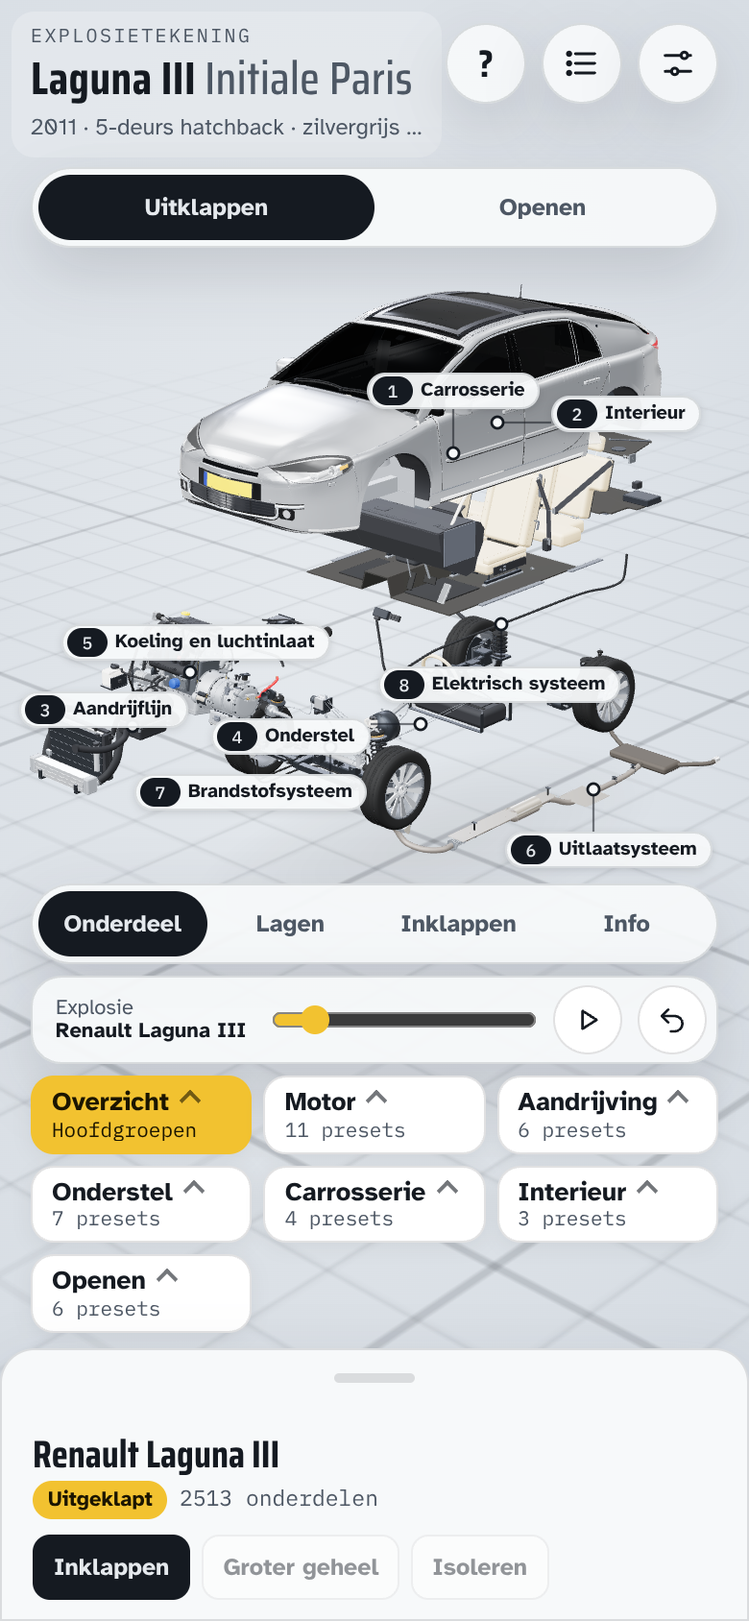
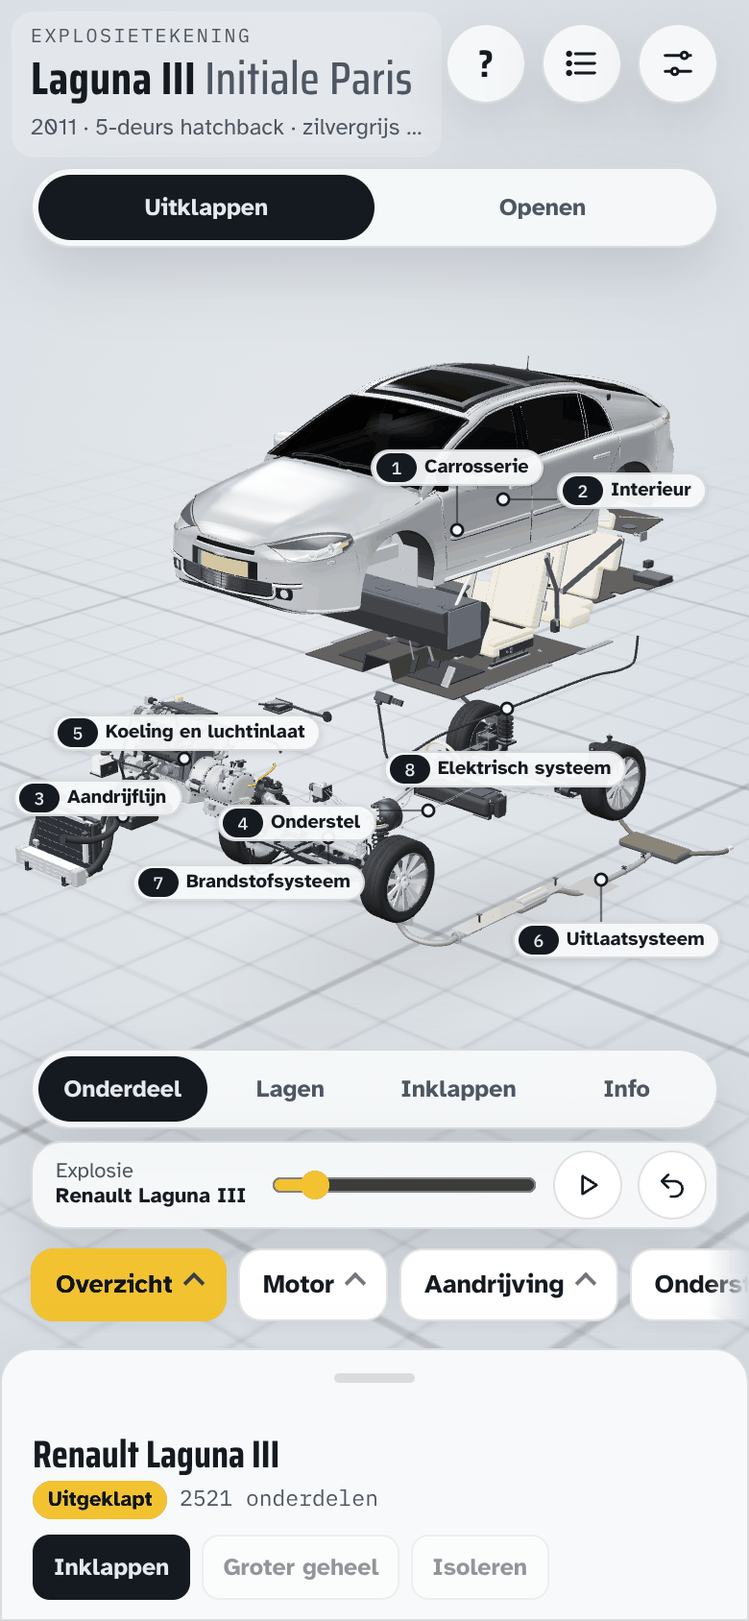
Versie 7 gebouwd en gedocumenteerd: strikte set groen op de samenvoeging, screenshots van versie 7 in 256 kleuren, kerncijfers, boom-snapshot en handomdraai
- docs/cijfers.md uit stats.json en tri.json van de strikte set (g5merge, 01:21 tot 01:52 UTC, alles groen, itest 161 van 161)
- data/tree.json: 3.020 paden (was 3.015), pncheck ok, partnumbers.js en CSV byte voor byte gelijk
- docs/screenshots: twaalf beelden opnieuw uit de presets, teruggebracht tot 256 kleuren (7,1 MB naar 2,9 MB); docshots.py doet dat voortaan zelf, pillow in requirements.txt
- docs/testen.md: resultaten versie 7; docs/ontwerp-en-architectuur.md: zonneschermslag met de stop voor de cassette (0,60 en 0,44 m)
- handomdraai.md herschreven naar de stand van PR #3; CHANGELOG en masterplan bijgewerkt; README: herkomst van de screenshots

Claude-Session: https://claude.ai/code/session_01RCjVtuLVn2Rjmm1TgihnXm

diff --git a/tools/orkestratie/docshots.py b/tools/orkestratie/docshots.py
@@ -1,4 +1,5 @@
-"""Screenshots voor docs/screenshots via de presets van de app (elf op 1280 x 800 en mobiel.png op 390 x 844).
+"""Screenshots voor docs/screenshots via de presets van de app (elf op 1280 x 800 en mobiel.png op 390 x 844), daarna
+teruggebracht tot 256 kleuren met Pillow (ongeveer 60 procent kleiner; zonder Pillow blijven ze in volle kleur, met een melding).
 
     python3 tools/orkestratie/docshots.py REPO UITVOERMAP    exitcode 1 bij consolefouten
 """
@@ -10,15 +11,22 @@ from harness import session
 SHOTS = [('gemonteerd', 'assembled'), ('hoofdgroepen', 'main'), ('alles-uit-elkaar', 'everything'), ('motor-f4rt', 'engine'), ('automaat', 'gearbox'), ('rontgen', 'xray'),
          ('openen-motorruimte', 'openHood'), ('openen-instappen', 'openDoors'), ('openen-bagageruimte', 'openTrunk'), ('openen-panoramadak', 'openRoof'), ('openen-alles', 'openAll')]
 os.makedirs(out, exist_ok=True)
+def klein(path):
+    try:
+        from PIL import Image
+    except ImportError:
+        print('Pillow ontbreekt: ' + path + ' blijft in volle kleur'); return
+    im = Image.open(path).convert('RGB')
+    im.quantize(colors=256, method=Image.Quantize.MEDIANCUT, dither=Image.Dither.FLOYDSTEINBERG).save(path, 'PNG', optimize=True)
 with session() as s:
     pg = s.page(1280, 800)
     for name, pid in SHOTS:
         pg.evaluate("(id) => { const L = __laguna; L.preset(id); L.finishAll(); if (L.batchFlush) L.batchFlush(); L.finishAll(); return 1; }", pid)
         pg.wait_for_timeout(1200)
-        pg.screenshot(path=os.path.join(out, name + '.png'), timeout=180000); print('beeld', name)
+        pg.screenshot(path=os.path.join(out, name + '.png'), timeout=180000); klein(os.path.join(out, name + '.png')); print('beeld', name)
     pg2 = s.page(390, 844, scale=2, touch=True)
     pg2.evaluate("() => { const L = __laguna; L.preset('main'); L.finishAll(); if (L.batchFlush) L.batchFlush(); L.finishAll(); return 1; }")
     pg2.wait_for_timeout(1200)
-    pg2.screenshot(path=os.path.join(out, 'mobiel.png'), timeout=180000); print('beeld mobiel')
+    pg2.screenshot(path=os.path.join(out, 'mobiel.png'), timeout=180000); klein(os.path.join(out, 'mobiel.png')); print('beeld mobiel')
     s.report()
     sys.exit(1 if s.errors() else 0)

diff --git a/handomdraai.md b/handomdraai.md
@@ -1,52 +1,58 @@
 # Handomdraai laguna3
 
-Stand 16 oktober 2026, 00:10 UTC. Golf 5 (de parallelle sessie van 15 oktober, 19:10 tot 21:36 UTC) en golf 5a-1 (het vangnet, vanaf 23:10 UTC) zijn samengevoegd op de tak `ccr-63d946bb-ng8q5l`. Versie 7 is gebouwd uit die stand zodra de strikte testset groen is; publicatie en PR volgen in dezelfde ronde. Het volledige verbeterplan staat in [docs/masterplan.md](docs/masterplan.md).
+Stand 16 oktober 2026, 02:00 UTC. Golf 5 van de parallelle sessie (15 oktober 19:10 tot 16 oktober 00:12 UTC, inclusief haar herstelronde), golf 5a-1 (vangnet-kern) en golf 5a-2 (vangnet-rest) staan samengevoegd op de tak `ccr-63d946bb-ng8q5l`, als concept-PR #3 naar `main`. De strikte testset is groen op die stand en `index.html` is gebouwd als versie 7 (`7 (bron 7d0e606)`). Publicatie is het samenvoegen van PR #3: dan serveert GitHub Pages versie 7. Het volledige verbeterplan staat in [docs/masterplan.md](docs/masterplan.md).
 
 ## Waar
 
-- Repo `rvd-gmpplus/laguna3`. `main` staat op `f3a7854` (versie 6, GitHub Pages serveert die). De tak `ccr-bd755431-1qfniw` van de parallelle sessie (golf 5, 21 commits, tip `8e03e87`) zit volledig in `ccr-63d946bb-ng8q5l`; alles vanaf hier gaat vanaf die laatste tak en daarna `main`.
-- Live: https://claude.ai/artifact/4qJq7YUk5nGSFmexY7WkZR (versie 6) en https://rvd-gmpplus.github.io/laguna3/ (versie 6, uit `main`). GitHub Pages is het kanaal; het artefact is een spiegel met dezelfde bytes.
+- Repo `rvd-gmpplus/laguna3`. `main` staat op `f3a7854` (versie 6, GitHub Pages serveert die). Werktak `ccr-63d946bb-ng8q5l`, PR #3 (concept): https://github.com/rvd-gmpplus/laguna3/pull/3. CI (`ci.yml`) is groen op de samenvoeging `2c179a5`. De tak `ccr-bd755431-1qfniw` van de parallelle sessie (29 commits, tip `b529ac1`) zit er volledig in; na het samenvoegen van PR #3 kan die tak weg.
+- Live: https://claude.ai/artifact/4qJq7YUk5nGSFmexY7WkZR (versie 6) en https://rvd-gmpplus.github.io/laguna3/ (versie 6, uit `main`). GitHub Pages is het kanaal; het artefact is een spiegel met dezelfde bytes en wordt na de publicatie van versie 7 bijgewerkt en teruggelezen.
 - De tak `gh-pages` (versie 5) is overbodig. De proxy weigert hem te verwijderen (403 op `git push --delete` en op de API); de gebruiker verwijdert hem in GitHub.
-- Bouwen: `python3 build.py`. Versie: `VERSION` (nu 7) plus een inhoudshash, zichtbaar in het hulpvenster (`?`) en in `__laguna.version`.
-- Verse omgeving: `tools/setup.sh` (Playwright uit `requirements.txt`, three.js 0.147.0 met npm-hashcontrole). In een Claude Code-sessie in de cloud doet de SessionStart-hook dat.
-- Kerncijfers: [docs/cijfers.md](docs/cijfers.md), gegenereerd uit `stats.json`; andere documenten verwijzen ernaar.
+- Bouwen: `python3 build.py`. Versie: `VERSION` (nu 7) plus een inhoudshash van `src/`, zichtbaar in het hulpvenster (`?`), in `<meta name="laguna-version">` en in `__laguna.version`.
+- Verse omgeving: `tools/setup.sh` (Playwright en Pillow uit `requirements.txt`, three.js 0.147.0 met npm-hashcontrole). In een Claude Code-sessie in de cloud doet de SessionStart-hook dat.
+- Kerncijfers: [docs/cijfers.md](docs/cijfers.md), gegenereerd uit `stats.json` en `tri.json`; andere documenten verwijzen ernaar in plaats van getallen te herhalen.
 
 ## Wat werkt
 
-- Boom: 3.015 knopen, 499 groepen, 2.516 onderdelen, diepte 8, 664.216 driehoeken (budgetten in `tools/anchors.json`: 700.000 totaal, Aandrijflijn 240.000 met 235.546, Carrosserie 190.000 met 189.214, Onderstel 125.000 met 113.228, Interieur 95.000 met 77.636). Gebundeld 439 tekenopdrachten gemonteerd, 1.872 zonder.
+- Boom: 3.020 knopen, 499 groepen, 2.521 onderdelen, diepte 8, 664.788 driehoeken (budgetten in `tools/anchors.json`: 700.000 totaal, Aandrijflijn 240.000 met 235.546, Carrosserie 190.000 met 189.446, Onderstel 125.000 met 113.228, Interieur 95.000 met 77.852). Gebundeld 441 tekenopdrachten gemonteerd, 1.883 zonder. 217 ingesloten knopen. Let op: Carrosserie heeft nog 554 driehoeken over; G1 in het masterplan maakt ruimte vóór nieuwe carrosseriedelen.
 - Uitklappen, de modus Openen (26 openers), het panoramadak, 43 presets in 7 categorieën, onderdeelnummers in het paneel (546 eenheden, 1.334 nummers, bij 14 eenheden het blok "Gekozen voor deze auto" op grond van de RDW en het chassisnummer van de gebruiker; het nummer zelf staat nergens in de repo).
 - Golf 5 (parallelle sessie): camera's van achterklep, motorkap en voorportieren; hoedenplank 33 graden; de naad tussen de rugleuningdelen donker; B-stijl in lak met sluitplaat en slotbeugel; voorruit van binnen op 0,45 maal de dekking (shader, `MAT.glassWs`); olievuldop aan een scharnierlip; steunstang Ø16 mm in donker staal; U19 (de rest dimmen bij duiken, schakelaar in Weergave); zijkolom voor telefoons in liggende stand; voorste langsliggers boven de aandrijfassen; opkant in de bodemplaat boven de torsiebalk, tank en koolstoffilter verplaatst; remleidingen achter om langsarm en veer; multiriem 1.672 mm; dakglas dekking 0,92 (opgave van de gebruiker); geen 4Control (opgave van de gebruiker); motorcode F4Rt 813 (waarschijnlijk, zie `docs/onderzoek/beslissingen.md`); ATF volgens MR 415; `docs/onderzoek/databankenrecht.md`.
-- Golf 5a-1 (vangnet): strikte testset met één exitcode en tijd per test (`finaltests.sh`), waarschuwingen tellen als fout, `ui_inner --open --strict`, `opentest --strikt-min` met de regel dat `open.min` minstens 0,8 maal de volle hoek of slag is, `tri.py --gate` op de budgetten, ankers voor de 26 openers (als pad) en de 43 preset-id's, `labelOnly` gecontroleerd. Zichtbaar: deelbare URL (`?preset=`, `?open=`, de adresbalk volgt), `?debug=1`-overlay (fps, tekenopdrachten, versie), laadmeldingen in stappen, een melding zonder WebGL, description en og-meta, favicon, LICENSE (MIT met een gegevensnotitie), `CLAUDE.md`, `CHANGELOG.md`, `docs/telefoontest.md`.
+- Herstelronde golf 5 (22:50 tot 00:12 UTC): achterklep met open glas en lijmrand, gasveren langs de zijwand, B-stijlafdekking boven de chroomband, spiegelcamera dichterbij; hemel onder het dakframe, dunne koordjes, laadvloer met voorstuk, lichte opbergbak, deksel van de armsteun met donkere onderkant (Dekselvoering), nieuwe interieurcamera's; zonneschermen van binnen in beeld (de stapel stopt net voor de cassette), donkere binnenlijst en lichte weerspiegeling op het dakglas; expansiedop scharniert aan de hals met een zichtbare vulopening; telefoon staand met de presetcategorieën in één schuivende rij (itest 16); de hoedenplank met pennen, koordjes en luidsprekers is uitgenomen zolang een rugleuning of de bagagevloer open is (`hideWhen` in de engine, zie `docs/ontwerp-en-architectuur.md`).
+- Golf 5a-1 (vangnet-kern): strikte testset met één exitcode en tijd per test (`finaltests.sh`), waarschuwingen tellen als fout, `ui_inner --open --strict`, `opentest --strikt-min` met de regel dat `open.min` minstens 0,8 maal de volle hoek of slag is. Zichtbaar: deelbare URL (`?preset=`, `?open=`, de adresbalk volgt), `?debug=1`-overlay (fps, tekenopdrachten, versie), laadmeldingen in stappen, een melding zonder WebGL, description en og-meta, favicon, versie in het hulpvenster (itest 17).
+- Golf 5a-2 (vangnet-rest): budgetten in `tools/anchors.json` met `tri.py --gate`, ankers voor de 26 openers (als pad) en de 43 preset-id's, `labelOnly` gecontroleerd; `data/pn/` als canonieke bron van de nummers, `build_pn.py` als zuivere serialisatie, `tools/pncheck.py` (byte voor byte, met `--tree` tegen `data/tree.json`); CI op GitHub (`ci.yml` per push: lint, `index.html` actueel, pncheck, smoke, integrity, silhouette, budgetpoort, testlijst; `nightly.yml`: de lange set); LICENSE (MIT met een gegevensnotitie), `CLAUDE.md`, `CHANGELOG.md`, `.gitattributes`, `docs/telefoontest.md`, `docs/cijfers.md`, `docs/masterplan.md`; screenshots van versie 7 in 256 kleuren (2,9 MB in plaats van 7,1 MB; `docshots.py` doet dat voortaan zelf).
 
 ## Tests
 
-Strikte set op de samengevoegde stand (uitvoer `g5a1` in het scratchpad, 23:46 tot 00:01 UTC): lint ok; smoke, integrity (0 fouten, 0 ankerfouten, 0 presetfouten), silhouette, pubsmoke (klaar na 8,9 s op 390 x 844), tri (budgetpoort ok), stats groen; opentest 26 openers 0 fouten met `--strikt-min` (frametijd p95 2,3 en 2,1 ms, grens 8); `ui_inner --open --strict` was rood op vier ingesloten knopen die elk door één straal op 20.000 van buiten te zien waren (Aanslagrubber achter, Rugframe achterbank, Kabelboom dashboard, Pakking waterkast rechts): vlaggen weg, daarna groen; itest 150 van 151 onder belasting (controle 14, dubbelklik op de kap, las een dubbelklik als twee klikken; opnieuw gedraaid op een rustige machine, zie `CHANGELOG.md` voor de uitslag van versie 7). Daarna is controle 16 (deelbare URL, overlay, versie) toegevoegd.
+Strikte set op de samengevoegde stand (`2c179a5`, uitvoer `g5merge` in het scratchpad, 01:21 tot 01:52 UTC), alles groen: lint ok; smoke (geen consolefouten of -waarschuwingen, geen horizontale scroll); integrity 0 fouten, 0 ankerfouten, 0 presetfouten; silhouette ok; `ui_inner --open --strict` geen ingesloten knoop van buiten zichtbaar; opentest 26 openers 0 fouten met `--strikt-min` (515 s; twee meldingen over volgers zonder `min`, toegestaan); `ITEST_GATES=1 itest` 161 van 161 (899 s); `tri --gate` budgetpoort ok; pubsmoke klaar na 9,5 s op 390 x 844; stats ok. CI op GitHub: groen op `2c179a5` (push- en PR-run).
 
-Eerder: de basislijn van golf 5 (tip `8e03e87`, oude testset) was groen op één frametijdmeting na die onder zware belasting 8,4 ms gaf.
+Eerder op deze tak: strikte set op de stand van 00:01 UTC groen na vier `inner`-vlaggen minder (Aanslagrubber achter, Rugframe, Kabelboom dashboard, Pakking waterkast rechts, elk door één straal van buiten te zien), itest 157 van 157 op een rustige machine (controle 14 was onder belasting een flake). De basislijn van golf 5 (tip `8e03e87`, oude testset) was groen op één frametijdmeting na die onder zware belasting 8,4 ms gaf.
+
+Conflicten bij het samenvoegen van de herstelronde (vijf bestanden): steeds haar geometrie en camera's met de ondergrenzen van 0,8 maal de hoek (spiegel 64 graden, rugleuningen en middenarmsteun 1,456 rad, armsteunkussen 0,92 rad, expansiedop 1,44 rad); `panTravel` rekent de stop voor de cassette mee (zonnescherm voor 0,60 m met ondergrens 0,50, achter 0,44 met 0,36); `Rugframe` zonder `inner`; haar itest-controle 16 naast mijn 17.
 
 ## Wat nog verbetering verdient
 
 De volledige lijst met nummers, vindplaatsen en volgorde staat in [docs/masterplan.md](docs/masterplan.md). De kop ervan:
 
-1. Golf 5a-2 (parallel mogelijk): CI op GitHub (push-job en nachtrun), de nummerpipeline reproduceerbaar (`data/pn/` als canonieke invoer, `build_pn.py` als zuivere serialisatie, `pncheck.py`), screenshots verkleinen, `docs/cijfers.md` als vaste bron.
-2. Golf 5c-1: robuustheid (`uiLastFit` centraal, PMREM na contextverlies, rondleiding pauzeren), het eerste beeld op de telefoon (het model krijgt nu circa 39 procent van de hoogte), "+n meer" bij labels, fade bij isoleren, themaknop, toegankelijkheid (focusval, menu-rol, canvasfocus, schakelaarcontrast), hulpvenster uit `PRESETS`, exporteren van een beeld, zoeksynoniemen, en tests voor toetsenbord, formaatwissel, 50 stappen terug, reduced motion, uitvalpaden, visuele regressie, labelankers.
-3. Golf 5d: nummers (dekkingsronde op de 100 meest bestelde delen, CSV met unit-id en bron per nummer, paden met een schuine streep, 57 varianten die nog open staan op het chassisnummer).
-4. Golf 5b-2: geometrie (B-stijl nagekeken met `pick.py` of klep en frame samen draaien, zijbekleding bagageruimte, ruitensproeiertank, aircoleidingen, vacuümslang, LOD voor bouten en veren, gedeelde constructies naar `core.js`, tekstcontract), met de visuele poort met vóór/na-paren.
-5. Golf 5c-2: prestaties (nummergegevens lui parsen, één synchronisatie per handeling, renderlus splitsen) en codegezondheid (constanten, dode code, dubbele helpers, modusobject, `app2.js` opdelen, teksttabel).
-6. Open feiten: het motorsuffix (811 of 813, het motorplaatje beslist), S6 of J6 voor de ATF, velgmaat, accuzijde, startknop, de hoeken van kap, portieren en klep aan de echte auto.
+1. Golf 5c-1: robuustheid (`uiLastFit` centraal, PMREM na contextverlies, rondleiding pauzeren), het eerste beeld op de telefoon (liggend en staand na itest 16 opnieuw meten), "+n meer" bij labels, fade bij isoleren, themaknop, toegankelijkheid (focusval, menu-rol, canvasfocus, schakelaarcontrast), hulpvenster uit `PRESETS`, exporteren van een beeld, zoeksynoniemen, en tests voor toetsenbord, formaatwissel, 50 stappen terug, reduced motion, uitvalpaden, visuele regressie, labelankers.
+2. Golf 5d: nummers (dekkingsronde op de 100 meest bestelde delen, CSV met unit-id en bron per nummer, paden met een schuine streep, 57 varianten die nog open staan op het chassisnummer).
+3. Golf 5b-2: geometrie (G1 ruimte maken in Carrosserie vóór alles, zijbekleding bagageruimte, ruitensproeiertank, aircoleidingen, vacuümslang, LOD voor bouten en veren, gedeelde constructies naar `core.js`, tekstcontract), met de visuele poort met vóór/na-paren.
+4. Golf 5c-2: prestaties (nummergegevens lui parsen, één synchronisatie per handeling, renderlus splitsen) en codegezondheid (constanten, dode code, dubbele helpers, modusobject, `app2.js` opdelen, teksttabel).
+5. Open feiten: het motorsuffix (811 of 813, het motorplaatje beslist), S6 of J6 voor de ATF, velgmaat, accuzijde, startknop, de hoeken van kap, portieren en klep aan de echte auto.
+6. De visuele poort K1-K13 met vóór/na-paren tegen versie 6 is op deze stand niet opnieuw gedraaid; de twaalf screenshots zijn wel nagekeken (hoedenplank uitgenomen bij de open bagagevloer, expansiedop en vulopening, panoramadak, telefoon).
 
 ## Wat bij de gebruiker ligt
 
-1. `gh-pages` verwijderen in GitHub (de proxy weigert het).
-2. De tags `v1` tot `v6` naar GitHub brengen; de proxy weigert `git push --tags` en de API (403). In een eigen kloon:
-   `git tag -a v1 9164d0a -m "Versie 1" && git tag -a v2 8095a3e -m "Versie 2" && git tag -a v3 60909fe -m "Versie 3" && git tag -a v4 9c03015 -m "Versie 4" && git tag -a v5 5b6cefa -m "Versie 5" && git tag -a v6 f3a7854 -m "Versie 6" && git push origin --tags`. Daarna kan `docs/v1/index.html` weg (tag `v1` is de terugvaloptie).
-3. De telefoontest volgens [docs/telefoontest.md](docs/telefoontest.md) zodra versie 7 op Pages staat (`?debug=1` voor de overlay).
-4. Het motorplaatje (F4R 811 of 813) en de metingen aan de auto (hoeken, velgmaat, accuzijde, startknop).
-5. Besluit over golf 6 (ES-modules en een actuele three.js; advies: nee tot er een aanleiding is) en over een tweede bestand naast de pagina voor de nummergegevens (alleen als het artefact als kanaal mag vervallen).
+1. PR #3 beoordelen en samenvoegen in `main` (merge, geen rebase: de tak bevat de samenvoegcommits van de parallelle sessie). Daarna serveert GitHub Pages versie 7; dan het artefact bijwerken met dezelfde bytes en de URL teruglezen (zie `docs/testen.md`, pubsmoke).
+2. `gh-pages` verwijderen in GitHub (de proxy weigert het).
+3. De tags `v1` tot `v7` naar GitHub brengen; de proxy weigert `git push --tags` en de API (403). In een eigen kloon, na het samenvoegen van PR #3 (`v7` op de samenvoegcommit in `main`):
+   `git tag -a v1 9164d0a -m "Versie 1" && git tag -a v2 8095a3e -m "Versie 2" && git tag -a v3 60909fe -m "Versie 3" && git tag -a v4 9c03015 -m "Versie 4" && git tag -a v5 5b6cefa -m "Versie 5" && git tag -a v6 f3a7854 -m "Versie 6" && git tag -a v7 <samenvoegcommit> -m "Versie 7" && git push origin --tags`. Daarna kan `docs/v1/index.html` weg (tag `v1` is de terugvaloptie).
+4. De telefoontest volgens [docs/telefoontest.md](docs/telefoontest.md) zodra versie 7 op Pages staat (`?debug=1` voor de overlay).
+5. Het motorplaatje (F4R 811 of 813) en de metingen aan de auto (hoeken, velgmaat, accuzijde, startknop).
+6. Besluit over golf 6 (ES-modules en een actuele three.js; advies: nee tot er een aanleiding is) en over een tweede bestand naast de pagina voor de nummergegevens (alleen als het artefact als kanaal mag vervallen).
 
 ## Werkwijze die werkte
 
 - Elke sessie begint met `git ls-remote --heads origin` en een vergelijking van elke tak met `main`. De premortem op het plan van golf 5 miste twee commits doordat de meting van vóór een push was.
+- Twee sessies op dezelfde bestanden: eerst de ander laten uitlopen (geen commit in 60 minuten), dan in één keer samenvoegen en bij elk conflict de geometrie van de ander en de contracten (ondergrenzen, `inner`) van het vangnet houden.
 - Golven per domein in eigen worktrees, `mergecheck.py` vóór samenvoegen, na samenvoegen de volledige strikte set, dan pas `index.html` herbouwen en publiceren, dan de URL teruglezen.
 - Een rode test onder belasting eerst herhalen op een rustige machine (de dubbelklik van controle 14 en de frametijd van opentest).
 - Een melding van een poort eerst narekenen met `pick.py`, `probe.py`, `rays_bagage.py` of stralen; dan pas wijzigen.
@@ -57,10 +63,10 @@ De volledige lijst met nummers, vindplaatsen en volgorde staat in [docs/masterpl
 
 - Plan en proces: `docs/masterplan.md`, `docs/premortem.md`, `CHANGELOG.md`, `CLAUDE.md`.
 - Onderzoek: `docs/onderzoek/` (kennisbasis, beslissingen, databankenrecht, exterieur, motor, automaat, onderstel en interieur, UX-audit).
-- Onderdeelnummers: `docs/onderdeelnummers.csv`, `src/partnumbers.js`, `tools/orkestratie/build_pn.py` (de invoer van golf 4 ontbreekt nog in de repo; zie golf 5a-2 in het masterplan).
+- Onderdeelnummers: `data/pn/` (canoniek), `data/tree.json` (de boom van de pagina, 3.020 paden), `docs/onderdeelnummers.csv`, `src/partnumbers.js`, `tools/orkestratie/build_pn.py`, `tools/pncheck.py`.
 - Hulpscripts: `tools/orkestratie/` (`finaltests.sh`, `cijfers.py`, `gallery.py`, `presetshots.py`, `docshots.py`, `stats.py`, `pickview.py`, `pick.py`, `shots.py`, `probe.py`, `rays_bagage.py`, `phone.py`, `gateshots.py`, `dumptree.py`, `poort.js`, `zone.py`, `mergecheck.py`). Uitleg: `tools/orkestratie/README.md`.
 - Het werkplaatshandboek MR 415 en de referentiefoto's staan niet in de repo (rechten van Renault en derden).
 
 ## Vluchtig: scratchpad, weg als de container stopt
 
-- `/tmp/claude-0/-home-user-laguna3/24f7dfc1-d667-544a-9754-10be18291035/scratchpad`: de drie audits (`audits/audit-app.md`, `audit-geometrie.md`, `audit-tooling.md`, de grondslag van het masterplan), de testuitvoer `g5base` (basislijn golf 5) en `g5a1` (strikte set), `inner2` tot `inner4`, `ot1` tot `ot3` (ondergrenzen), `itest2.txt`, en de worktree `wt-sister` van de zustertak.
+- `/tmp/claude-0/-home-user-laguna3/24f7dfc1-d667-544a-9754-10be18291035/scratchpad`: de drie audits (`audits/audit-app.md`, `audit-geometrie.md`, `audit-tooling.md`, de grondslag van het masterplan), de testuitvoer `g5base` (basislijn golf 5), `g5a1` (strikte set van 00:01 UTC) en `g5merge` (strikte set van versie 7, met `stats.json` en `tri.json`), en de worktree `wt-sister` van de zustertak.

diff --git a/CHANGELOG.md b/CHANGELOG.md
@@ -12,4 +12,4 @@ staat in de pagina zelf (`?` in de bovenbalk, en `__laguna.version`): het nummer
 | 4 | 14 oktober | `9c03015` (bron `ec92a53`) | Carrosserieronde: herkenbaarheid (S7 gehaald met 7 van 9), labelankers op het eigen deel, het itest-randgeval opgelost. |
 | 5 | 14 oktober, 00:02 | `5b6cefa` (bron `ff42dbd`) | Einduitlaten en de onderkant dicht. |
 | 6 | 15 oktober, 02:10 | `31a8f0d` (bron `3ab6a8d`) | Golf 4: modus Openen (26 openers), panoramadak, onderdeelnummers in het paneel, kennis uit het rapport van de gebruiker en MR 415. |
-| 7 | in voorbereiding | | Golf 5 (parallelle sessie, 15 oktober 19:10 tot 21:36): camera's van achterklep, motorkap en voorportieren, hoedenplank 33 graden, B-stijl met slotbeugel, voorruit van binnen doorzichtig, olievuldop aan een scharnierlip, U19 (rest dimmen bij duiken), zijkolom voor liggende telefoons, langsliggers boven de aandrijfassen, opkant boven de torsiebalk, 14 nummerkeuzes op het chassisnummer, ATF volgens MR 415, dakglas 0,92, geen 4Control. Golf 5a-1 (deze sessie, vanaf 15 oktober 23:10): vangnet (testomgeving, strikte testset met één exitcode, budgetpoort, ondergrensregel, ankers voor openers en presets), deelbare URL, debug-overlay, versie in de pagina, laadmeldingen, LICENSE (MIT). Herstelronde van de parallelle sessie (15 oktober 22:50 tot 16 oktober 00:12): achterklep met open glas en lijmrand, gasveren langs de zijwand, B-stijlafdekking boven de chroomband, spiegelcamera dichterbij; hemel onder het dakframe, dunne koordjes, laadvloer met voorstuk, lichte opbergbak, deksel met donkere onderkant (Dekselvoering), nieuwe interieurcamera's; zonneschermen van binnen in beeld (stop voor de cassette), donkere binnenlijst en lichte weerspiegeling op het dakglas, expansiedop scharniert aan de hals met zichtbare vulopening; telefoon staand met presetcategorieën in één schuivende rij (itest 16); hoedenplank uitgenomen zolang een rugleuning of de bagagevloer open is (`hideWhen`). Samengevoegd in `ccr-63d946bb-ng8q5l` op 16 oktober 01:20 UTC, met de ondergrenzen van 0,8 maal de hoek op spiegel, rugleuningen, middenarmsteun, armsteunkussen en expansiedop. |
+| 7 | 16 oktober, gebouwd 01:55 (publicatie: samenvoeging van PR #3) | inhoudshash `7d0e606` (de tak `ccr-63d946bb-ng8q5l`) | Golf 5 (parallelle sessie, 15 oktober 19:10 tot 21:36): camera's van achterklep, motorkap en voorportieren, hoedenplank 33 graden, B-stijl met slotbeugel, voorruit van binnen doorzichtig, olievuldop aan een scharnierlip, U19 (rest dimmen bij duiken), zijkolom voor liggende telefoons, langsliggers boven de aandrijfassen, opkant boven de torsiebalk, 14 nummerkeuzes op het chassisnummer, ATF volgens MR 415, dakglas 0,92, geen 4Control. Golf 5a-1 (deze sessie, vanaf 15 oktober 23:10): vangnet (testomgeving, strikte testset met één exitcode, budgetpoort, ondergrensregel, ankers voor openers en presets), deelbare URL, debug-overlay, versie in de pagina, laadmeldingen, LICENSE (MIT). Herstelronde van de parallelle sessie (15 oktober 22:50 tot 16 oktober 00:12): achterklep met open glas en lijmrand, gasveren langs de zijwand, B-stijlafdekking boven de chroomband, spiegelcamera dichterbij; hemel onder het dakframe, dunne koordjes, laadvloer met voorstuk, lichte opbergbak, deksel met donkere onderkant (Dekselvoering), nieuwe interieurcamera's; zonneschermen van binnen in beeld (stop voor de cassette), donkere binnenlijst en lichte weerspiegeling op het dakglas, expansiedop scharniert aan de hals met zichtbare vulopening; telefoon staand met presetcategorieën in één schuivende rij (itest 16); hoedenplank uitgenomen zolang een rugleuning of de bagagevloer open is (`hideWhen`). Samengevoegd in `ccr-63d946bb-ng8q5l` op 16 oktober 01:20 UTC, met de ondergrenzen van 0,8 maal de hoek op spiegel, rugleuningen, middenarmsteun, armsteunkussen en expansiedop. Strikte set op die stand 01:21 tot 01:52 UTC, alles groen (itest 161 van 161). Tijden van de golf: start 15 oktober 23:10 (5a-1), samenvoeging van de herstelronde 16 oktober 01:20, `index.html` 01:55, PR #3 01:26. |

diff --git a/docs/testen.md b/docs/testen.md
@@ -165,6 +165,23 @@ De kolom "Na golf 1" is de tussenstand van 13 oktober 2026 rond 11:30 UTC, ongew
 | `ui_inner.py` | bestond nog niet | 0 eerste treffers op 256 ingesloten knopen (na golf 2 waren het er 52) | 0 eerste treffers op 256 ingesloten knopen | 0 eerste treffers op 253 ingesloten knopen (39.200 stralen op de hele auto, 20.000 per hoofdgroep). Op `ff42dbd` hetzelfde |
 | URL na publicatie gelijk aan `index.html` | niet van toepassing | Gelijk. Versie 2 van de URL, teruggelezen op 13 oktober om 17:00 UTC, bevat `index.html` van `8095a3e` (618.341 bytes, md5 `dc2bc3b0…`) precies één keer en aaneengesloten. Daaromheen staan alleen het vaste paginaskelet van de host (531 bytes: doctype, charset, viewport en basisstijl tot en met `<body>`) en de afsluiting `</body></html>` (15 bytes). | Gelijk. Versie 3 van de URL, teruggelezen op 13 oktober om 17:37 UTC, bevat `index.html` van `60909fe` (620.025 bytes, md5 `d92a8bb2…`) precies één keer en aaneengesloten, met hetzelfde paginaskelet ervoor (531 bytes) en dezelfde afsluiting erna (15 bytes). | Gelijk. Versie 4 van de URL bevat `index.html` uit `ec92a53` (commit `9c03015`, 663.654 bytes, md5 `70b2e62a426312ec788fc851086ab4c6`) precies één keer, met alleen het paginaskelet van de host eromheen (531 bytes ervoor, 15 erna). Versie 5, gepubliceerd op 14 oktober en teruggelezen om 00:02 UTC, bevat `index.html` uit `ff42dbd` (commit `5b6cefa`, 678.887 bytes, md5 `649cbf95397d877f6a361600c42a4afd`) precies één keer en byte voor byte gelijk, met hetzelfde skelet (531 bytes ervoor, 15 erna) |
 
+## Resultaten versie 7 (golf 5 en 5a)
+
+Strikte set (`tools/orkestratie/finaltests.sh`) op de samengevoegde stand `2c179a5`, 16 oktober 2026, 01:21 tot 01:52 UTC; CI op GitHub groen op dezelfde commit. De statistieken staan in [cijfers.md](cijfers.md).
+
+| Test | Uitslag | Duur |
+|---|---|---|
+| `build.py --lint` | ok | 0 s |
+| `smoke.py` | geen consolefouten of -waarschuwingen, geen horizontale scroll op de telefoon | 68 s |
+| `integrity.py` | 0 fouten, 0 ankerfouten, 0 presetfouten | 28 s |
+| `silhouette.py` | ok | 17 s |
+| `ui_inner.py --open --strict` | geen ingesloten knoop van buitenaf zichtbaar | 99 s |
+| `opentest.py --strikt-min` | 26 openers, 0 fouten; twee meldingen voor volgers zonder `open.min` (toegestaan) | 515 s |
+| `itest.py` met poorten | 161 van 161 (controle 16 telefoon staand, 17 deelbare stand) | 899 s |
+| `tri.py --gate` | budgetpoort ok | 9 s |
+| `pubsmoke.py` | OK, klaar na 9,5 s op 390 x 844 | 26 s |
+| `stats.py` | ok | 15 s |
+
 ## Resultaten golf 4
 
 Eindstand `g4final4` op `3ab6a8d` (de uitvoer staat in het scratchpad). Daarna veranderden alleen de screenshots en de documentatie.

diff --git a/docs/masterplan.md b/docs/masterplan.md
@@ -56,7 +56,7 @@ Op 15 oktober om 19:49 UTC werkt een andere sessie (Opus 5.5 met vijf subagents)
 | 5a-1 | Gedaan: A2 (testomgeving, rooktest in 41 s in een verse container), A3, A4, A5, A6 (deelbare URL, overlay, versie, laadmeldingen, meta, favicon), A7 (protocol in `docs/telefoontest.md`; de sessie van de gebruiker volgt na versie 7). A1 gedaan om 01:20 UTC: de zustertak (29 commits, tip `b529ac1`, laatste commit 00:12 UTC, daarna 65 minuten stil) zit volledig in deze tak; vijf conflicten opgelost met haar geometrie en camera's en mijn ondergrenzen van 0,8 maal de hoek (spiegel 64 graden, rugleuningen en middenarmsteun 1,456 rad, armsteunkussen 0,92 rad, expansiedop 1,44 rad), `Rugframe` zonder `inner`, haar itest-controle 16 (telefoon staand) naast mijn controle 17 (deelbare stand). |
 | 5a-2 | Gedaan: A8 (budgetten en `tri --gate`), A9 (openers als pad en preset-id's in `anchors.json`, `labelOnly` als kind van de labelgroep), A10 (`data/pn/` canoniek, `build_pn.py` als serialisatie met controles, `pncheck.py`; byte voor byte gelijk), A11 (`ci.yml` en `nightly.yml`; de eerste run bewees de omgeving en de poort op een oude `index.html`), A12 deels (versiestempel, `CHANGELOG.md`; de tags `v1` tot `v6` staan lokaal, de proxy weigert ze te pushen, zie `handomdraai.md`), A13 deels (LICENSE, `CLAUDE.md`, `.gitattributes`, `.gitignore`, `mergecheck.py`; screenshots verkleinen wacht op de nieuwe screenshots van versie 7), A14 (`cijfers.py` en `docs/cijfers.md`, drift opgeruimd). |
 | 5b-1 | Gedaan door de parallelle sessie (zie hieronder), inclusief haar herstelronde van 22:50 tot 00:12 UTC (acht commits: achterklep met open glas, gasveren langs de zijwand, B-stijlafdekking, hemel onder het dakframe, Dekselvoering, zonneschermen van binnen zichtbaar, expansiedop als scharnier met vulopening, telefoon staand, `hideWhen` voor de hoedenplank). |
-| Poort | Strikte set op de samengevoegde stand: alles groen na vier `inner`-vlaggen minder; itest 157 van 157 op een rustige machine (controle 14 was een belastingsflake). |
+| Poort | Strikte set op de samengevoegde stand van 01:20 UTC (uitvoer `g5merge`, 01:21 tot 01:52 UTC): alle tien tests groen, itest 161 van 161, opentest strikt zonder fouten, `ui_inner --open --strict` zonder treffers, budgetpoort ok (Carrosserie 189.446 van 190.000: nog 554 over, zie G1). Eerder op de stand van 00:01 UTC: alles groen na vier `inner`-vlaggen minder, itest 157 van 157 op een rustige machine. |
 
 ## Golf 5a-1: vangnet-kern (eerst; 1 dag, met een stopregel)
 

diff --git a/docs/cijfers.md b/docs/cijfers.md
@@ -1,14 +1,14 @@
 # Kerncijfers
 
-Gegenereerd door `tools/orkestratie/cijfers.py` uit `stats.json` op 2026-10-16, bron `4d68ee8 2026-10-16`. Niet met de hand bewerken; andere documenten verwijzen hiernaar in plaats van getallen te herhalen.
+Gegenereerd door `tools/orkestratie/cijfers.py` uit `stats.json` op 2026-10-16, bron `2c179a5 2026-10-16`. Niet met de hand bewerken; andere documenten verwijzen hiernaar in plaats van getallen te herhalen.
 
 ## Boom
 
 | Grootheid | Waarde |
 |---|---|
-| Knopen | 3.015 |
+| Knopen | 3.020 |
 | Groepen | 499 |
-| Onderdelen | 2.516 |
+| Onderdelen | 2.521 |
 | Diepte | 8 |
 | Ingesloten knopen (`inner`) | 217 |
 | Presets | 43 |
@@ -19,36 +19,37 @@ Gegenereerd door `tools/orkestratie/cijfers.py` uit `stats.json` op 2026-10-16, 
 | Hoofdgroep | Onderdelen | Driehoeken | Budget |
 |---|---|---|---|
 | Aandrijflijn | 1.048 | 235.546 | 240.000 |
-| Carrosserie | 494 | 189.214 | 190.000 |
+| Carrosserie | 496 | 189.446 | 190.000 |
 | Onderstel | 497 | 113.228 | 125.000 |
-| Interieur | 272 | 77.636 | 95.000 |
-| Koeling en luchtinlaat | 73 | 18.700 | 25.000 |
+| Interieur | 274 | 77.852 | 95.000 |
+| Koeling en luchtinlaat | 74 | 18.824 | 25.000 |
 | Uitlaatsysteem | 52 | 13.184 | 20.000 |
 | Brandstofsysteem | 37 | 9.220 | 12.000 |
 | Elektrisch systeem | 43 | 7.488 | 12.000 |
-| Totaal | 2.516 | 664.216 | 700.000 |
+| Totaal | 2.521 | 664.788 | 700.000 |
 
 ## Tekenopdrachten (gemonteerd)
 
 | Stand | Waarde |
 |---|---|
-| Met gebundeld renderen | 439 |
-| Zonder bundelen | 1.878 |
-| Batches | 46 groepen, 363 batchmeshes, 1.802 losse meshes vervangen, 26.7 MB van 47.8 MB |
+| Met gebundeld renderen | 441 |
+| Zonder bundelen | 1.883 |
+| Batches | 46 groepen, 365 batchmeshes, 1.807 losse meshes vervangen, 26.8 MB van 47.9 MB |
 
 ## Opstarttijdlijn (software-rendering in de container, ms sinds het begin van de navigatie)
 
 | Moment | ms |
 |---|---|
-| script | 480 |
-| buildStart | 1.134 |
-| buildCar | 1.193 |
-| startUp | 2.388 |
-| render0 | 2.431 |
-| firstFrame | 4.488 |
-| interactive | 4.494 |
-| ready | 6.557 |
-| duur buildCar() | 59 |
+| script | 429 |
+| buildStart | 1.110 |
+| buildCar | 931 |
+| startUp | 2.114 |
+| render0 | 2.245 |
+| firstFrame | 4.651 |
+| interactive | 4.657 |
+| ready | 9.367 |
+| batches | 9.365 |
+| duur buildCar() | 931 |
 
 Deze tijden zeggen niets over een echt apparaat; zie `docs/telefoontest.md`.
 

diff --git a/docs/ontwerp-en-architectuur.md b/docs/ontwerp-en-architectuur.md
@@ -235,7 +235,7 @@ Hoeken in graden, slag in meter. De eindstand en de ondergrens komen uit `tools/
 | Achterklep | scharnier dakrand | 66 | 60 | twee gasveren als telescoop; de hoedenplank volgt (33 graden) en hangt aan twee koordjes (telescopen) aan de klep, met de luidsprekers erop; de plank met pennen, koordjes en luidsprekers is uitgenomen (`hideWhen`) zolang een rugleuning of de bagagevloer open is |
 | Tankklep | scharnier voorrand | 140 | 112 | tankkom in het rechter achterscherm, capless vulhals |
 | Glaspaneel voor (label Schuifdak) | kantelen en schuiven | 0,60 | 0,48 | needs Zonnescherm voor; luchtgeleider volgt |
-| Zonnescherm voor, achter | schuif naar de cassette | 0,65 en 0,47 | 0,54 en 0,39 (0,82 maal de rechte slag van de eerste lamel) | lamellen als volgers |
+| Zonnescherm voor, achter | schuif naar de cassette | 0,60 en 0,44 | 0,50 en 0,36 (0,82 maal de rechte slag van de eerste lamel, met de stop voor de cassette meegerekend) | lamellen als volgers; de stapel stopt net voor de cassette zodat de greep van binnen zichtbaar blijft |
 | Handschoenenkastklep | scharnier onderrand | 72 | 60 | needs Portier rechtsvoor |
 | Armsteunkussen | scharnier | 66 | 53 | needs Portier linksvoor |
 | Rugleuning groot deel (rechts), klein deel (links) | scharnier | 104 | 83 | needs Achterklep; hoofdsteunen en gordels gaan mee |

diff --git a/README.md b/README.md
@@ -239,4 +239,4 @@ Alles uit elkaar: [docs/screenshots/alles-uit-elkaar.png](docs/screenshots/alles
 
 Telefoonweergave: [docs/screenshots/mobiel.png](docs/screenshots/mobiel.png)
 
-De screenshots in `docs/screenshots/` tonen de stand van golf 4: ze zijn gemaakt uit de bron van `3ab6a8d` met `tools/orkestratie/docshots.py`, via de presets van de pagina, op 1280 x 800 (`mobiel.png` op 390 x 844 met pixelverhouding 2) en met software-rendering in de container.
+De screenshots in `docs/screenshots/` tonen de stand van versie 7 (golf 5 met de herstelronde en golf 5a): ze zijn gemaakt met `tools/orkestratie/docshots.py`, via de presets van de pagina, op 1280 x 800 (`mobiel.png` op 390 x 844 met pixelverhouding 2), met software-rendering in de container en daarna teruggebracht tot 256 kleuren.
